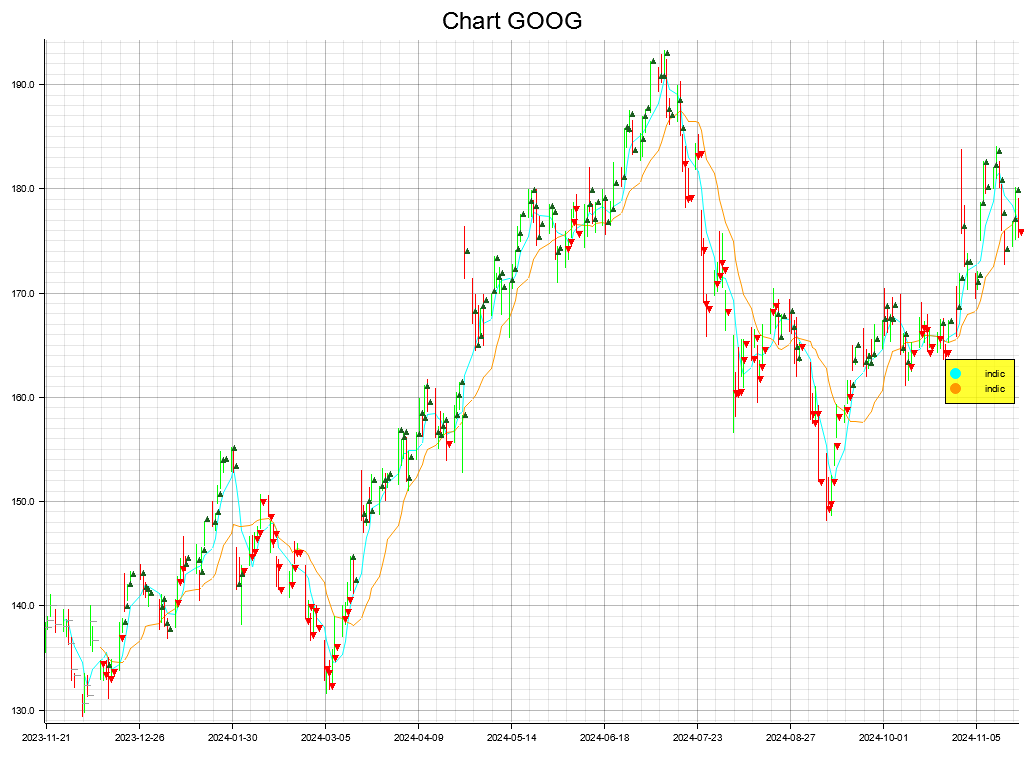
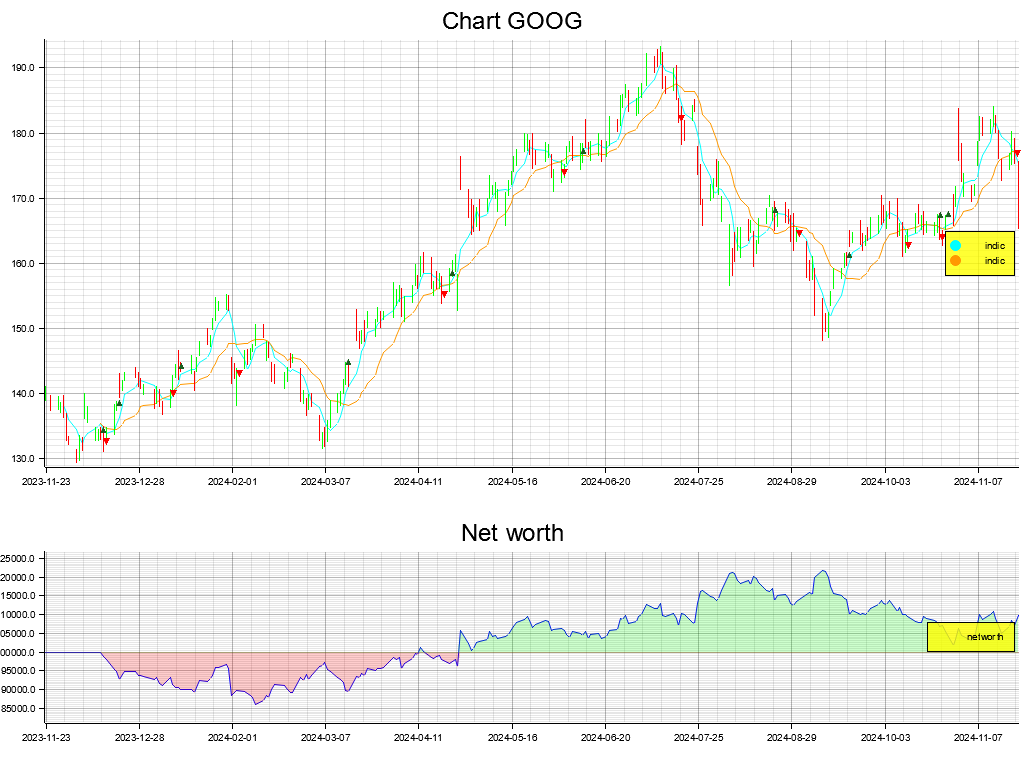
area fill in networth chart

diff --git a/src/charts.rs b/src/charts.rs
@@ -171,7 +171,9 @@ pub fn plot(backtest:Backtest, config:Plot_Config) ->Result<(), Box<dyn std::err
 
     //add marker and label
     if config.display_marker_label==true {
+        let mut prev_order = orders::Order::NULL;
         for ((x, y), z) in yahoo_datetimes.iter().zip(closes.iter()).zip(backtest.orders().iter()) {
+            if *z != prev_order{
             chart.draw_series(PointSeries::of_element(
                 vec![(*x, *y)],
                 5, // Circle marker size
@@ -188,6 +190,8 @@ pub fn plot(backtest:Backtest, config:Plot_Config) ->Result<(), Box<dyn std::err
                         };
                 },
             ))?;
+            prev_order=*z;
+            };
         }
     }
 
@@ -211,11 +215,18 @@ pub fn plot(backtest:Backtest, config:Plot_Config) ->Result<(), Box<dyn std::err
 
         chart_low.configure_mesh().x_label_formatter(&|dt| dt.format("%Y-%m-%d").to_string()).draw().unwrap();
 
-        let _ = chart_low.draw_series(LineSeries::new((0..networth.len()).map(|i| (yahoo_datetimes[i], networth[i])), &BLUE)).unwrap().label("networth");
+        chart_low.draw_series(LineSeries::new((0..networth.len()).map(|i| (yahoo_datetimes[i], networth[i])), &BLUE)).unwrap().label("networth");
+
+        // area fill (GREEN, RED)
+        let gains: Vec<f64> = networth.clone().iter().map(|value|if *value > networth[0] { *value } else { networth[0] }).collect();
+        let losses: Vec<f64> = networth.clone().iter().map(|value|if *value < networth[0] { *value } else { networth[0] }).collect();
+
+        chart_low.draw_series(AreaSeries::new((0..yahoo_datetimes.len()).map(|i|(yahoo_datetimes[i], gains[i])),networth[0], &GREEN.mix(0.2))).unwrap();
+        chart_low.draw_series(AreaSeries::new((0..yahoo_datetimes.len()).map(|i|(yahoo_datetimes[i], losses[i])),networth[0], &RED.mix(0.2))).unwrap();
 
         chart_low.configure_series_labels()
             .border_style(&BLACK)
-            .background_style(&WHITE.mix(0.8))
+            .background_style(&YELLOW.mix(0.8))
             .draw()
             .unwrap();
     }

diff --git a/examples/chart.rs b/examples/chart.rs
@@ -12,6 +12,7 @@ pub fn main() -> Result<(),Box<dyn Error>> {
     backtest.calculate();
     let mut plot_config = Plot_Config::default();
     plot_config.display_marker_label=true;
+    plot_config.display_networth = true;
     plot(backtest.clone(),plot_config)?;
     Ok(())
 }
